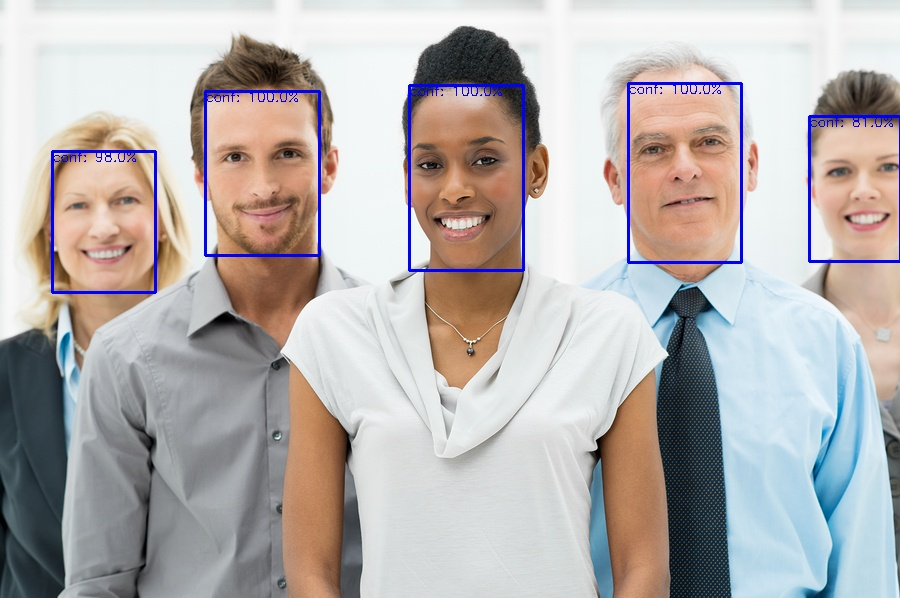
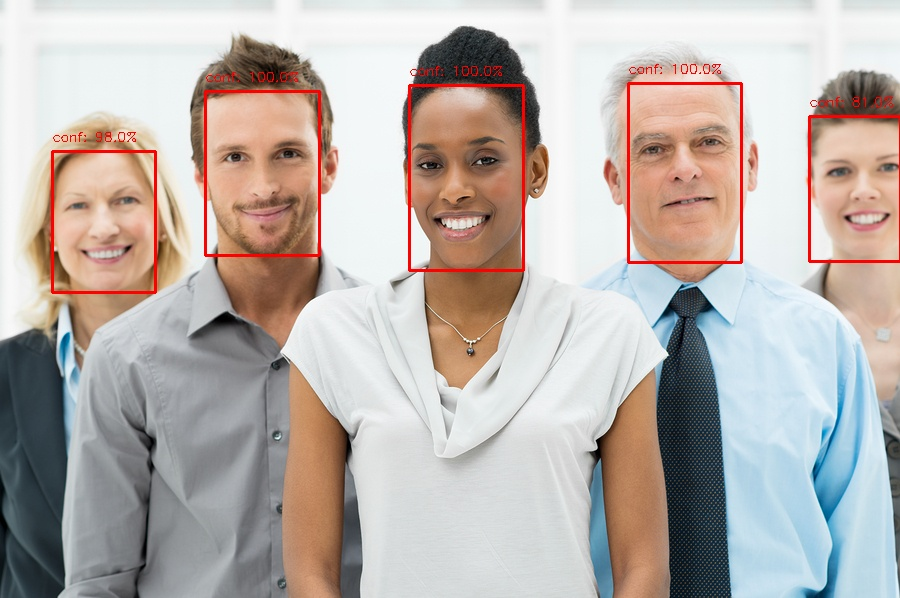
Changed color of detection box, fixed text location and updated results

diff --git a/face_blur.py b/face_blur.py
@@ -1,17 +1,6 @@
 import cv2
-
-# import sys
-# import matplotlib.pyplot as plt
-
-# # from mtcnn import MTCNN
-import cv2
 import sys
 from dnn_face_detector import DNN_Face_Detector as dnn_detector
-
-# import matplotlib.pyplot as plt
-
-# # import face_recognition
-# import numpy as np
 
 
 # Set the required tolerance and detection result (blur/rectangle)
@@ -22,8 +11,13 @@ DETECTION = "d"
 VIDEO_INPUT = 0
 OUTPUT_FILE_NAME = "detection_output_video.avi"
 
+SRC = False
+SRC_PIC = "resources/stockphotopeople.jpg"
+RES_NAME = "test_faces_detected.jpg"
+
 
 def main():
+    global SRC
 
     print("===== Starting Network Configuration =====")
 
@@ -37,7 +31,7 @@ def main():
     print("===== Starting Face Detection =====")
 
     frame_number = 0
-    while True:
+    while SRC:
 
         # Read next frame
         ret, frame = input_src.read()
@@ -58,14 +52,34 @@ def main():
         print("Writing frame {} / {}".format(frame_number, length))
 
         # Convert the frame back to BGR
-        rgb_frame = cv2.cvtColor(frame, cv2.COLOR_BGR2RGB)
+        rgb_frame = cv2.cvtColor(frame, cv2.COLOR_RGB2BGR)
 
         # Write the frame to the output file and also display in monitoring window
         output_file.write(rgb_frame)
         cv2.imshow("Output Video (Press 'q' to exit program)", rgb_frame)
 
         if cv2.waitKey(1) & 0xFF == ord("q"):
-            break
+            SRC = False
+
+    else:
+        frame = cv2.imread(SRC_PIC)
+        frame_number += 1
+
+        # Convert frame to RGB from BGR (necessary for pre-processing for the network)
+        frame = cv2.cvtColor(frame, cv2.COLOR_BGR2RGB)
+
+        # Detect faces in the current frame
+        detector.detect_faces(frame)
+
+        # Write to console the current frame being processed
+        print("Writing frame {} / {}".format(frame_number, length))
+
+        # Convert the frame back to BGR
+        rgb_frame = cv2.cvtColor(frame, cv2.COLOR_BGR2RGB)
+
+        # Write the frame to the output file and also display in monitoring window
+        cv2.imwrite(RES_NAME, rgb_frame)
+        # cv2.imshow("Output Video (Press 'q' to exit program)", rgb_frame)
 
     input_src.release()
     output_file.release()

diff --git a/dnn_face_detector.py b/dnn_face_detector.py
@@ -131,15 +131,15 @@ def blur_face(frame, x1, y1, x2, y2):
 def draw_rectangle(frame, confidence, x1, y1, x2, y2):
 
     # Draw rectangle around the face co-ordinates
-    cv2.rectangle(frame, (x1, y1), (x2, y2), (0, 0, 255), 2)
-
+    cv2.rectangle(frame, (x1, y1), (x2, y2), (255, 0, 0), 2)
+    y = y1 - 10 if y1 - 10 > 10 else y1 + 10
     cv2.putText(
         frame,  # Put the text on the given frame
         "conf: {}%".format(round(confidence * 100), 1),
-        (x1, y1 + 10),  # Display confidence above box
+        (x1, y1 - 10),  # Display confidence above box
         cv2.FONT_HERSHEY_SIMPLEX,  # Font is this
         0.45,  # Scale of font
-        (0, 0, 255),  # Color = red
+        (255, 0, 0),  # Color = red
         1,  # Line thickness of 1
     )
 
